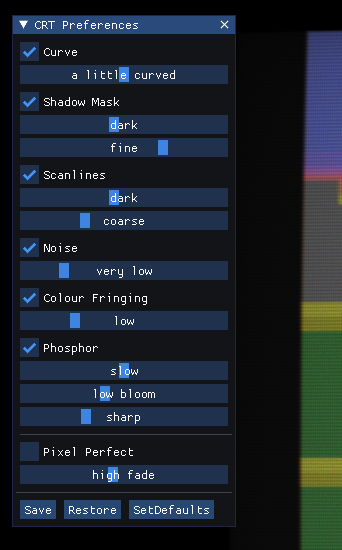
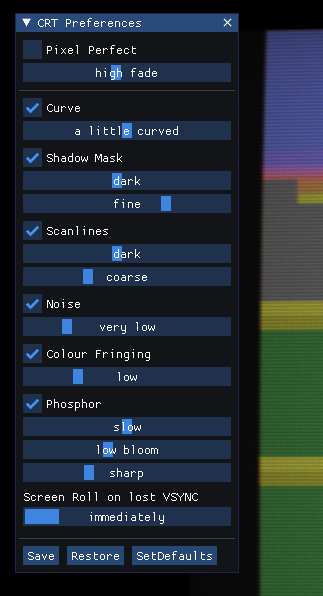
Screen Roll/Unsync tolerance definable in CRT Prefs window

diff --git a/gui/sdlimgui/screen.go b/gui/sdlimgui/screen.go
@@ -275,12 +275,6 @@ func (scr *screen) Resize(spec specification.Spec, topScanline int, bottomScanli
 	return <-scr.img.polling.serviceErr
 }
 
-// the number of consecutive unsynced frames before the screen starts to roll.
-// there's no reason for this figure but the value of 2 was settled on through
-// observation. notably, a tolerance of 2 prevents the Chiphead demo from
-// rolling on the occasional unsynced frame.
-const unsyncedTolerance = 2
-
 // NewFrame implements the television.PixelRenderer interface
 //
 // MUST NOT be called from the gui thread.
@@ -292,31 +286,35 @@ func (scr *screen) NewFrame(vsynced bool, stable bool) error {
 	scr.crit.vsynced = vsynced
 
 	if scr.img.isPlaymode() {
-		// screen rolling
-		if vsynced {
-			scr.crit.unsyncedCt = 0
+		// check screen rolling if crtprefs are enabled
+		if scr.img.crtPrefs.Enabled.Get().(bool) {
+			if vsynced {
+				scr.crit.unsyncedCt = 0
 
-			// recovery required
-			if scr.crit.unsyncedScanline > 0 {
-				scr.crit.unsyncedRecoveryCt++
-				scr.crit.unsyncedScanline *= 8
-				scr.crit.unsyncedScanline /= 10
+				// recovery required
+				if scr.crit.unsyncedScanline > 0 {
+					scr.crit.unsyncedRecoveryCt++
+					scr.crit.unsyncedScanline *= 8
+					scr.crit.unsyncedScanline /= 10
 
-				if scr.crit.unsyncedScanline == 0 {
-					scr.crit.unsyncedRecoveryCt = 0
+					if scr.crit.unsyncedScanline == 0 {
+						scr.crit.unsyncedRecoveryCt = 0
+					}
+				}
+			} else {
+				// without the stable check, the screen can desync and recover
+				// from a roll on startup on most ROMs, which looks quite cool but
+				// we'll leave it disabled for now.
+				if stable {
+					scr.crit.unsyncedCt++
+					if scr.crit.unsyncedCt > scr.img.crtPrefs.UnsyncTolerance.Get().(int) {
+						scr.crit.unsyncedScanline = (scr.crit.unsyncedScanline + scr.crit.lastY) % specification.AbsoluteMaxScanlines
+						scr.crit.unsyncedRecoveryCt = 0
+					}
 				}
 			}
 		} else {
-			// without the stable check, the screen can desync and recover
-			// from a roll on startup on most ROMs, which looks quite cool but
-			// we'll leave it disabled for now.
-			if stable {
-				scr.crit.unsyncedCt++
-				if scr.crit.unsyncedCt > unsyncedTolerance {
-					scr.crit.unsyncedScanline = (scr.crit.unsyncedScanline + scr.crit.lastY) % specification.AbsoluteMaxScanlines
-					scr.crit.unsyncedRecoveryCt = 0
-				}
-			}
+			scr.crit.unsyncedScanline = 0
 		}
 
 		scr.crit.plotIdx++

diff --git a/gui/sdlimgui/win_crt_prefs.go b/gui/sdlimgui/win_crt_prefs.go
@@ -16,6 +16,8 @@
 package sdlimgui
 
 import (
+	"fmt"
+
 	"github.com/inkyblackness/imgui-go/v4"
 	"github.com/jetsetilly/gopher2600/logger"
 )
@@ -66,8 +68,17 @@ func (win *winCRTPrefs) draw() {
 		imgui.BeginV(win.id(), &win.open, imgui.WindowFlagsAlwaysAutoResize)
 	}
 
-	// note start position of setting group
-	imgui.BeginGroup()
+	pp := win.drawPixelPerfect()
+	imgui.Spacing()
+
+	// disable all CRT effect options if pixel-perfect is on
+	if pp {
+		imgui.PushItemFlag(imgui.ItemFlagsDisabled, true)
+		imgui.PushStyleVarFloat(imgui.StyleVarAlpha, 0.5)
+	}
+
+	imgui.Separator()
+	imgui.Spacing()
 
 	win.drawCurve()
 	imgui.Spacing()
@@ -88,12 +99,14 @@ func (win *winCRTPrefs) draw() {
 	win.drawSharpness()
 	imgui.Spacing()
 
-	imgui.Separator()
+	win.drawUnsyncTolerance()
 	imgui.Spacing()
 
-	win.drawPixelPerfect()
-
-	imgui.EndGroup()
+	// end of disabling rule before drawing the disk buttons
+	if pp {
+		imgui.PopStyleVar()
+		imgui.PopItemFlag()
+	}
 
 	imguiSeparator()
 	win.drawDiskButtons()
@@ -341,7 +354,7 @@ func (win *winCRTPrefs) drawSharpness() {
 	}
 }
 
-func (win *winCRTPrefs) drawPixelPerfect() {
+func (win *winCRTPrefs) drawPixelPerfect() bool {
 	b := !win.img.crtPrefs.Enabled.Get().(bool)
 	if imgui.Checkbox("Pixel Perfect##pixelpefect", &b) {
 		win.img.crtPrefs.Enabled.Set(!b)
@@ -363,5 +376,23 @@ func (win *winCRTPrefs) drawPixelPerfect() {
 
 	if imgui.SliderFloatV("##pixelperfectfade", &f, 0.0, 0.9, label, 1.0) {
 		win.img.crtPrefs.PixelPerfectFade.Set(f)
+	}
+
+	return b
+}
+
+func (win *winCRTPrefs) drawUnsyncTolerance() {
+	imgui.Text("Screen Roll on lost VSYNC")
+
+	t := int32(win.img.crtPrefs.UnsyncTolerance.Get().(int))
+	var label string
+	if t == 0 {
+		label = "immediately"
+	} else {
+		label = fmt.Sprintf("after %d frames", t)
+	}
+
+	if imgui.SliderIntV("##unsyncTolerance", &t, 0, 5, label, 1.0) {
+		win.img.crtPrefs.UnsyncTolerance.Set(t)
 	}
 }

diff --git a/gui/crt/preferences.go b/gui/crt/preferences.go
@@ -44,6 +44,8 @@ type Preferences struct {
 	Sharpness       prefs.Float
 
 	PixelPerfectFade prefs.Float
+
+	UnsyncTolerance prefs.Int
 }
 
 func (p *Preferences) String() string {
@@ -69,6 +71,7 @@ const (
 	phosphorBloom    = 1.0
 	sharpness        = 0.55
 	pixelPerfectFade = 0.4
+	unsyncTolerance  = 0
 )
 
 // NewPreferences is the preferred method of initialisation for the Preferences type.
@@ -159,6 +162,10 @@ func NewPreferences() (*Preferences, error) {
 	if err != nil {
 		return nil, err
 	}
+	err = p.dsk.Add("crt.unsyncTolerance", &p.UnsyncTolerance)
+	if err != nil {
+		return nil, err
+	}
 
 	err = p.dsk.Load(true)
 	if err != nil {
@@ -188,6 +195,7 @@ func (p *Preferences) SetDefaults() {
 	p.PhosphorBloom.Set(phosphorBloom)
 	p.Sharpness.Set(sharpness)
 	p.PixelPerfectFade.Set(pixelPerfectFade)
+	p.UnsyncTolerance.Set(unsyncTolerance)
 }
 
 // Load disassembly preferences and apply to the current disassembly.

diff --git a/README.md b/README.md
@@ -411,14 +411,17 @@ but the common ones are.
 `Gopher2600` tries to emulate the visual effect of a CRT television. This is by
 no means complete and is an area of active development.
 
-Individual CRT effects can be turned on and off. In playmode the preferences
-window can by opened by pressing `F10`.
+In playmode the preferences window can by opened by pressing `F10`.
 
 <img src=".screenshots/crt_playmode_prefs_window.png" height="400" alt="crt playmode preferences window"/>
 
 In the debugger the preferences window can be opened from the `Debugger` menu
 and a preview can be seen in the `TV Screen` by pressing the `CRT Preview`
 checkbox.
+
+The effects can be turned off completely with the `Pixel Perfect` option. In
+this mode, there is still the option to specify pixel fade. This is roughly
+equivalent to the `phosphor` effect.
 
 ## Configuration Directory
 
